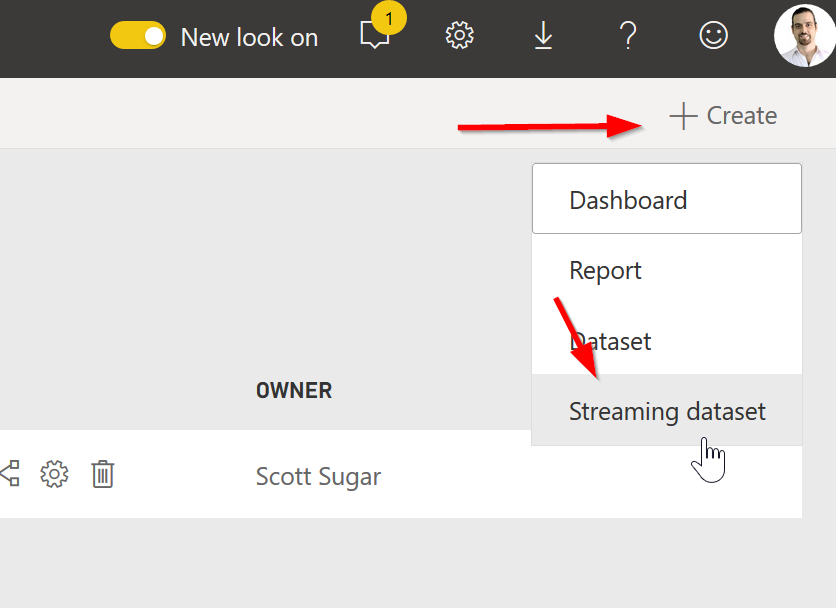
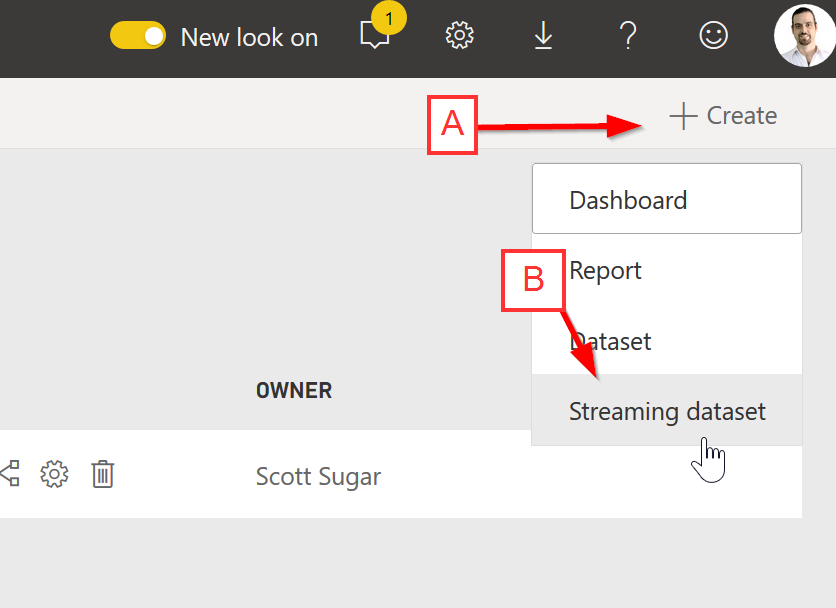
adding in detailed steps

Changed region(s): [[0.5909, 0.4062, 0.6842, 0.5312], [0.4976, 0.1562, 0.5909, 0.2812]]

diff --git a/PowerBIUsage/PowerBIUsageReport.md b/PowerBIUsage/PowerBIUsageReport.md
@@ -62,23 +62,48 @@ We have a few things we need to set up in order to get this solution working:
 
 7. Gather Client secret
    * A) Copy the Client secret into notepad for use later
-   
+
 ![Step7](images/AAD-Step7.png)
 
 
 #### Power BI Streaming DataSet
 
+1. Create Streaming dataset
+   * A) Click +Create
+   * B) Click on Streaming dataset
+
 ![Step1](images/PBI-Step1.png)
+
+2. Select data source
+   * A) Select API
+   * B) Click Next
 
 ![Step2](images/PBI-Step2.png)
 
+3. Enter dataset and field names
+   * A) Enter a dataset name
+   * B) Fill in the "Values from stream" section as per the screenshot below.
+   * Note: CreationTime is type DateTime, everything else is text.
+
 ![Step3](images/PBI-Step3.png)
 
+4. Turn on historical data analysis and create the dataset
+   * A) Scroll down
+   * B) Enable "Historical data analysis"
+   * C) Click Create
+
 ![Step4](images/PBI-Step4.png)
+
+5. Gather PowerShell Code
+   * A) Click on PowerShell
+   * B) Copy the endpoint URL to notepad for use later
+   * C) Click Done
 
 ![Step5](images/PBI-Step5.png)
 
 ### Get-PowerBIUsage Script
+
+
 
 #### Update Script
 
